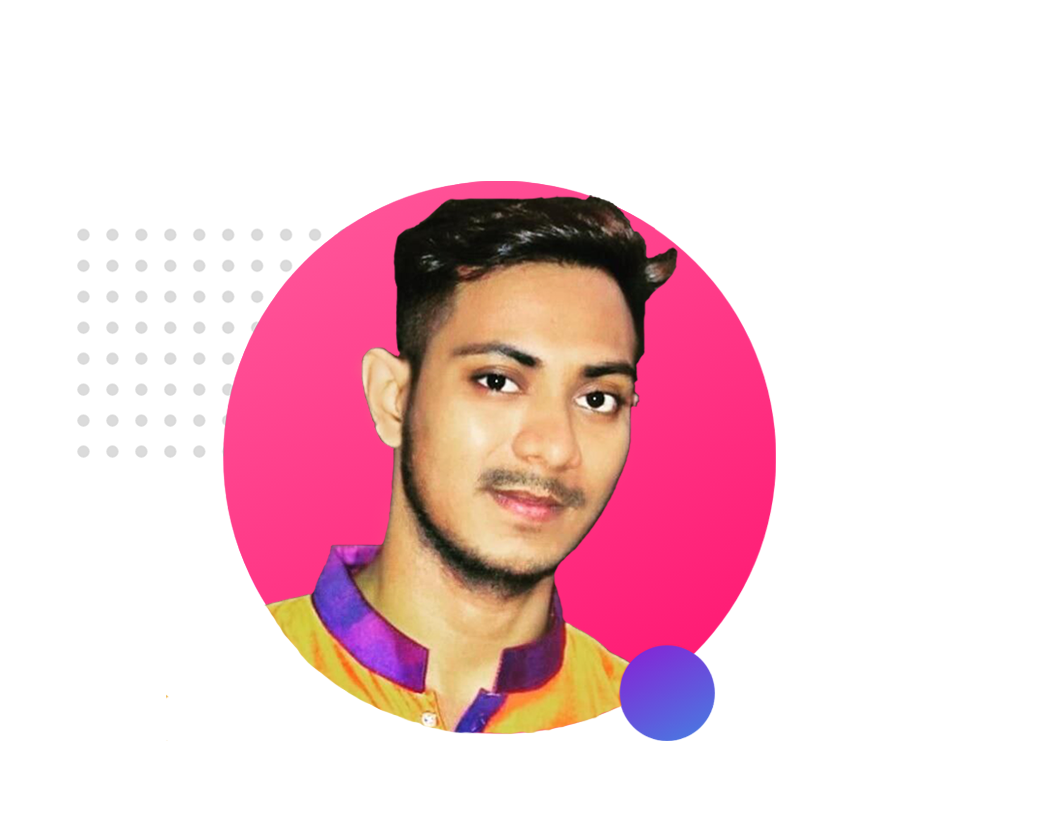
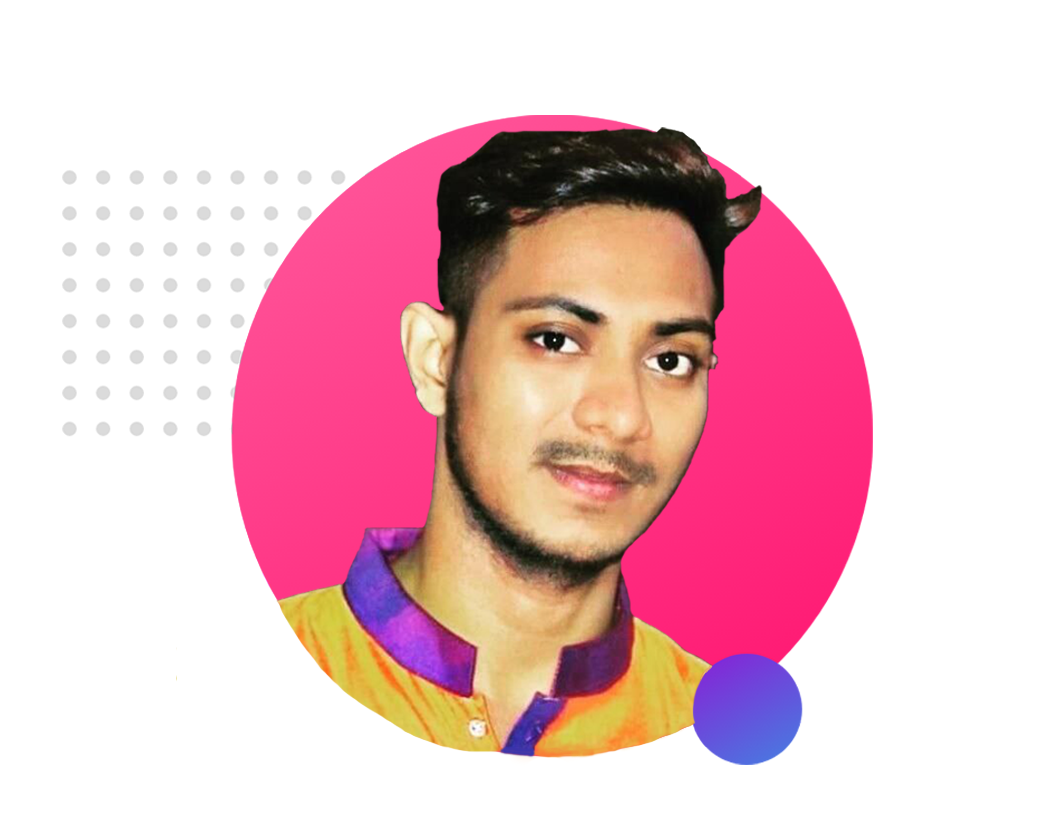
something changed

Changed region(s): [[0.0617, 0.125, 0.8632, 0.9375]]

diff --git a/index.html b/index.html
@@ -15,17 +15,17 @@
 <body>
    <section class="top-banner">
    <div class="half-width">
-    <h1>Welcome To</h1>
-    <h1><span class="namne-hightlight">Ahsan Habib</span> Web Devlopment World</h1>
-    <h2>World Class Professional Devloper.</h2>
+    <h1 class="first-text">Welcome To</h1>
+    <h1 class="first-text"><span class="namne-hightlight">Ahsan Habib</span> Web <br/> Devlopment World</h1>
+    <h3>World Class Professional Devloper </h3>
     <p>This is my personal web devlopment site.I am a programmer.
-        This is my first website.So, you can rating me.i have experience by 5 years ago.
-        if you want to create a well website? you can knock me. 
+        This is my first website.So, you can rating me.I am expert of HTML coding language.
+        if you want to create a beautiful website? you can hire me.Visit my profile 
     </p> 
-    <a class="link-button "target="_blank" href="https://www.facebook.com/profile.php?id=100008842127165">My profile</a>
+    <a class="link-button "target="_blank" href="https://www.facebook.com/profile.php?id=100008842127165">Facebook Profile</a>
    </div>
    <div class="half-width">
-    <img src="images/bg1.png" alt="">
+    <img src="images/image 17.png" alt="">
    </div>
    </section>
    <section class="dream-area">
@@ -35,21 +35,37 @@
     <div>
         <h2 class="font-style">Dream area</h2>
         <h3>Become World Famous Devloper</h3>
-        <p>I already learned the basic HTML and CSS.I can build my simple website.
-            <p>I can even teach any person how to make simple website.</p><p>My goals is to 
+        <p>I already learned the basic HTML and CSS.I can build my simple website.</br>
+            I can even teach any person how to make simple website.</br>My goals is to 
             build 3 website  and learn advance topics.</p>
             <a class="link-button" href="https://www.youtube.com/channel/UC9MbCX_d11QpZGBb880w7uA">Visit My Youtube</a>
     </div>
  </section>
  <section class="experience-area">
-    <div class="half-width">
-<h2>Full Stack Web Devloper</h2>
+    <h2 class="experience">Experiences</h2>
+    <div id="full-stack" class="half-width single-experience">
+        
+<h2 class="baby-text">Full Stack Web Devloper</h2>
 <h3>2022 -Present | Pro Level Devloper</h3>
-<p>I am the master of HTML and CSS.i know everything needed to make a website funtion,efficient.I didn't stop with the web. I went bewyound with most popular HTML.i will give you 100% web solution.</p>
+<p>I am the master of HTML and CSS.</br>I know everything needed to make a website funtion,efficient.</br>I didn't stop with the web. I went bewyound with most popular HTML.</br>I will give you 100% web solution.</br>
     </div>
-    <div class="half-width">
-        <h2>Baby Web Devloper</h2>
+    <div id="baby-web" class="half-width single-experience">
+        <h2 class="baby-text">Baby Web Devloper</h2>
+        <h3>2020-2021 | Programming Hero Learner.</h3>
+        <p>They didn't offer me a job but myself as a remove web devloper.</br>I modw their website and showed it to them.</br>They liked it and uploaded the content it was fun working of Programming Hero.</p>
     </div>
+    <script type="text/temple"></script>
  </section>
 </body>
+<footer>
+    <h2 class="text-design">Author:Ahsan Habib</h2>
+  <section class="footer-design">
+    <div class="author">
+       <h2>Author: Md. Ahsan Habib</h2>
+       <input type="email" placeholder="Your Email">
+       <button class="button">Submit</button> 
+       <p>© Copyright From Programming Hero 2022 | Contact: ahsanhabib22229@gmail.com</p>
+    </div>
+  </section>
+</footer>
 </html>

diff --git a/style.css b/style.css
@@ -1,11 +1,12 @@
 body{
     margin:0;
     font-family:'Kanit', sans-serif;
+  
     
 }
 
 .namne-hightlight{
-    color: orangered;
+    color: orange;
 }
 h1{
     font-size:50px;
@@ -18,6 +19,7 @@ h2{
     float:left;
     margin-left:5%;
     padding-left: 2%;
+    
 }
 .half-width img{
 width:100%;
@@ -25,6 +27,7 @@ width:100%;
 .top-banner{
     background-image: url("images/top-banner.png");
     background-repeat: no-repeat;
+  
 }
 section{
     height:500px;
@@ -47,4 +50,60 @@ p{
     background-image: url(images/dream-bg.png);
     background-repeat: no-repeat;
     background-position: right;
+} 
+#half-width{
+    width: 40%;
+    float:left;
+    }
+    .experience-area{
+        height:600px;
+    }
+    .single-experience{
+        box-shadow: 10px 10px 45px gray;
+        border-radius:10px;
+    }
+#full-stack{
+    border-left:8px solid;
+    border-image: linear-gradient(orange, tomato);
+    border-image-slice: 1;
+}
+#baby-web{
+    border-left:8px solid;
+    border-image: linear-gradient(orange, tomato);
+    border-image-slice: 1;
+}
+
+.text-design{
+    color:white;
+}
+.footer-design{
+    height:50%;
+    background-color:rgb(240, 216, 216);
+    margin: 10px;
+    padding: 10px;
+    text-align: center;
+    background-size: cover;
+    border-radius:10px;
+}
+.author{
+    background-image: linear-gradient(45deg,orange,tomato);
+    border-radius: 10px;
+    color:rgb(66, 65, 65);
+    
+}
+.experience{
+    color:orange;
+}
+.button{
+    background-color: gray;
+    border:10px;
+    border-radius: 5px 2px;
+    padding:3px 2px;
+    margin:2px 2px 2px 2px;
+}
+.baby-text{
+    color:orange;
+} 
+.first-text{
+    color:dimgray;
 }
